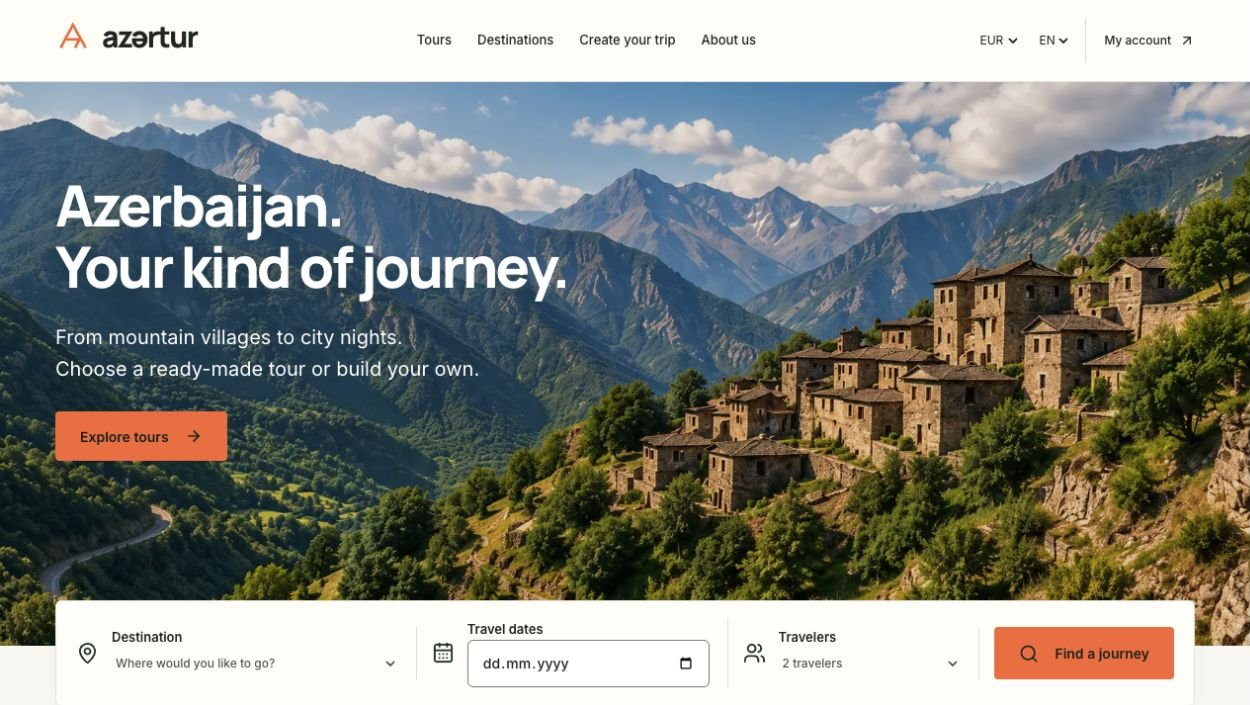
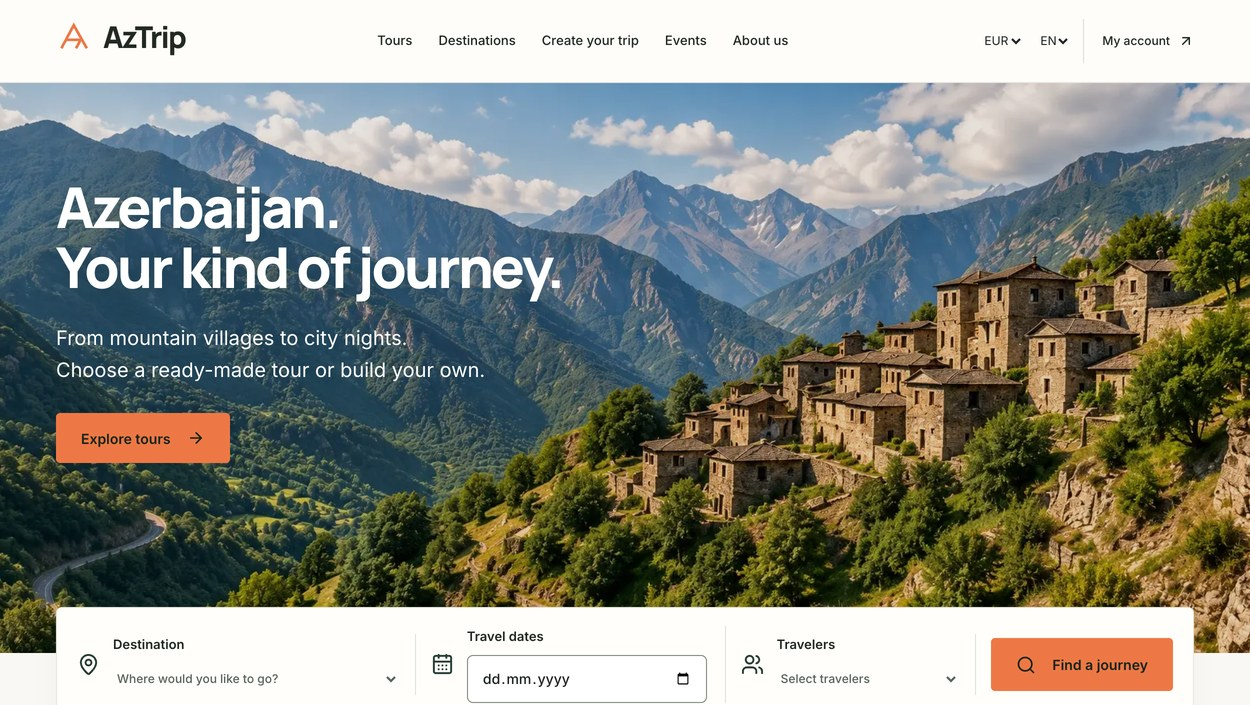
pitch: drop the bottom navigation bar, refresh product slide screens

diff --git a/components/pitch-deck.tsx b/components/pitch-deck.tsx
@@ -4,16 +4,11 @@ import type { CSSProperties, ReactNode } from "react";
 import {
   CalendarClock,
   CalendarHeart,
-  ChevronLeft,
-  ChevronRight,
   Compass,
   Layers,
   LayoutTemplate,
   FolderOpen,
   MapPinned,
-  Maximize,
-  Minimize,
-  Printer,
   Route,
   Tickets,
 } from "lucide-react";
@@ -652,8 +647,6 @@ const H = 1080;
 export default function PitchDeck() {
   const [index, setIndex] = useState(0);
   const [scale, setScale] = useState(0.5);
-  const [full, setFull] = useState(false);
-  const [idle, setIdle] = useState(false);
   const root = useRef<HTMLDivElement>(null);
   const touch = useRef<{ x: number; y: number } | null>(null);
   const last = SLIDES.length - 1;
@@ -691,12 +684,6 @@ export default function PitchDeck() {
     fit();
     window.addEventListener("resize", fit);
     return () => window.removeEventListener("resize", fit);
-  }, []);
-
-  useEffect(() => {
-    const sync = () => setFull(document.fullscreenElement === root.current);
-    document.addEventListener("fullscreenchange", sync);
-    return () => document.removeEventListener("fullscreenchange", sync);
   }, []);
 
   const toggleFull = useCallback(() => {
@@ -744,26 +731,6 @@ export default function PitchDeck() {
     return () => window.removeEventListener("keydown", onKey);
   }, [go, index, last, toggleFull]);
 
-  // Hide the control bar when the pointer rests.
-  useEffect(() => {
-    let timer: ReturnType<typeof setTimeout>;
-    const wake = () => {
-      setIdle(false);
-      clearTimeout(timer);
-      timer = setTimeout(() => setIdle(true), 2800);
-    };
-    wake();
-    window.addEventListener("mousemove", wake);
-    window.addEventListener("touchstart", wake);
-    window.addEventListener("keydown", wake);
-    return () => {
-      clearTimeout(timer);
-      window.removeEventListener("mousemove", wake);
-      window.removeEventListener("touchstart", wake);
-      window.removeEventListener("keydown", wake);
-    };
-  }, []);
-
   const stageStyle = { transform: `translate(-50%, -50%) scale(${scale})` };
 
   return (
@@ -800,38 +767,6 @@ export default function PitchDeck() {
 
       <p className="pd-rotate">Rotate your phone for the best view</p>
 
-      <nav className={`pd-controls${idle ? " is-idle" : ""}`} aria-label="Presentation controls">
-        <button type="button" onClick={() => go(index - 1)} disabled={index === 0} aria-label="Previous slide">
-          <ChevronLeft size={20} />
-        </button>
-        <ol>
-          {LABELS.map((label, i) => (
-            <li key={label}>
-              <button
-                type="button"
-                className={i === index ? "is-current" : ""}
-                onClick={() => go(i)}
-                aria-label={`Go to slide ${i + 1}: ${label}`}
-                aria-current={i === index ? "step" : undefined}
-                title={label}
-              />
-            </li>
-          ))}
-        </ol>
-        <span className="pd-count" aria-live="polite">
-          {index + 1} / {SLIDES.length}
-        </span>
-        <button type="button" onClick={() => go(index + 1)} disabled={index === last} aria-label="Next slide">
-          <ChevronRight size={20} />
-        </button>
-        <i aria-hidden="true" />
-        <button type="button" onClick={toggleFull} aria-label={full ? "Exit full screen" : "Full screen"}>
-          {full ? <Minimize size={18} /> : <Maximize size={18} />}
-        </button>
-        <button type="button" onClick={() => window.print()} aria-label="Print or save as PDF">
-          <Printer size={18} />
-        </button>
-      </nav>
     </div>
   );
 }
